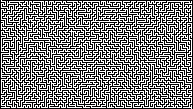
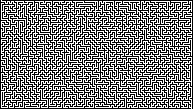
Modify RandFloat()
- Renamed RandFRange()
- Add comments

Changed region(s): [[0.0, 0.0, 0.9948, 0.9908]]

diff --git a/LinearFeedbackShift.cpp b/LinearFeedbackShift.cpp
@@ -5,29 +5,44 @@
 LinearFeedbackShift::LinearFeedbackShift() {
 }
 
+/// <summary>
+/// Get random float between 0 and 1
+/// </summary>
+/// <param name="bitCount"></param>
+/// <returns></returns>
 float LinearFeedbackShift::RandFloat(unsigned int bitCount) {
 	//unsigned int state = seed;
-	unsigned int out = 0;
+	unsigned int count = bitCount > 32 ? 32 : bitCount;
 
-	// 32,22,2,1
-	for (int i = 31; i >= 0; i--) {
-		out = out | ((LinearFeedbackShift::Seed & 0b1) << i);
-
-		int newbit = LinearFeedbackShift::Seed ^ (LinearFeedbackShift::Seed >> 1) ^ (LinearFeedbackShift::Seed >> 2) ^ (LinearFeedbackShift::Seed >> 22);
-		newbit = newbit & 0b1;
-
-		LinearFeedbackShift::Seed = (LinearFeedbackShift::Seed >> 0b1) | (newbit << 31);
+	// get max
+	unsigned int max = 0;
+	for (int i = count - 1; i >= 0; i--) {
+		max = max | (0b1 << i);
 	}
 
-	return (float)out / (float)UINT_MAX;
+	unsigned int rand = LinearFeedbackShift::RandUInt(count);
+
+	return (float)rand / (float)max;
 }
 
-float LinearFeedbackShift::RandFRange(const float min, const float max, unsigned int bitCount) {
+/// <summary>
+/// Get random float between min and max
+/// </summary>
+/// <param name="min"></param>
+/// <param name="max"></param>
+/// <param name="bitCount"></param>
+/// <returns></returns>
+float LinearFeedbackShift::RandFloatRange(const float min, const float max, unsigned int bitCount) {
 	float difference = max - min;
 	float random = LinearFeedbackShift::RandFloat(bitCount);
 	return (difference * random) + min;
 }
 
+/// <summary>
+/// Get random n-bit int
+/// </summary>
+/// <param name="bitCount"></param>
+/// <returns></returns>
 int LinearFeedbackShift::RandInt(const unsigned int bitCount) {
 	int out = 0;
 
@@ -45,10 +60,19 @@ int LinearFeedbackShift::RandInt(const unsigned int bitCount) {
 	return out;
 }
 
+/// <summary>
+/// Get random 32-bit unsigned int
+/// </summary>
+/// <returns></returns>
 unsigned int LinearFeedbackShift::RandUInt() {
 	return LinearFeedbackShift::RandUInt(32);
 }
 
+/// <summary>
+/// Get random n-bit unsigned int
+/// </summary>
+/// <param name="bitCount"></param>
+/// <returns></returns>
 unsigned int LinearFeedbackShift::RandUInt(const unsigned int bitCount) {
 	unsigned count = bitCount > 32 ? 32 : bitCount;
 	unsigned int out = 0;

diff --git a/main.cpp b/main.cpp
@@ -92,8 +92,8 @@ int main() {
 			stack.push_back(grid[currentX][currentY]);
 
 			// Choose one of the unvisited neighbours
-			float random = LinearFeedbackShift::RandFRange(0.0f, (float)(neighbours.size()), 3);
-			int index = (int)floorf(random);
+			float random = LinearFeedbackShift::RandFloatRange(0.0f, (float)(neighbours.size() - 1), 3);
+			int index = (int)roundf(random);
 			Side chosen = neighbours[index];
 
 			// Remove the wall between the current cell and the chosen cell

diff --git a/LinearFeedbackShift.h b/LinearFeedbackShift.h
@@ -6,7 +6,7 @@ public:
 	LinearFeedbackShift();
 
 	static float RandFloat(unsigned int bitCount);
-	static float RandFRange(const float min, const float max, unsigned int bitCount);
+	static float RandFloatRange(const float min, const float max, unsigned int bitCount);
 	static int RandInt(const unsigned int bitCount);
 	static unsigned int RandUInt();
 	static unsigned int RandUInt(const unsigned int bitCount);
